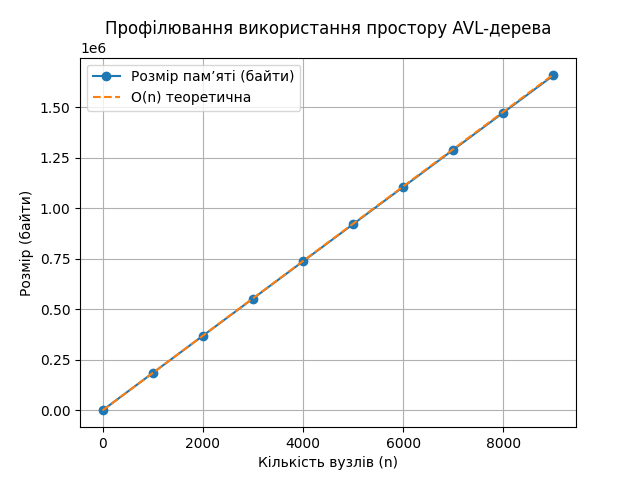
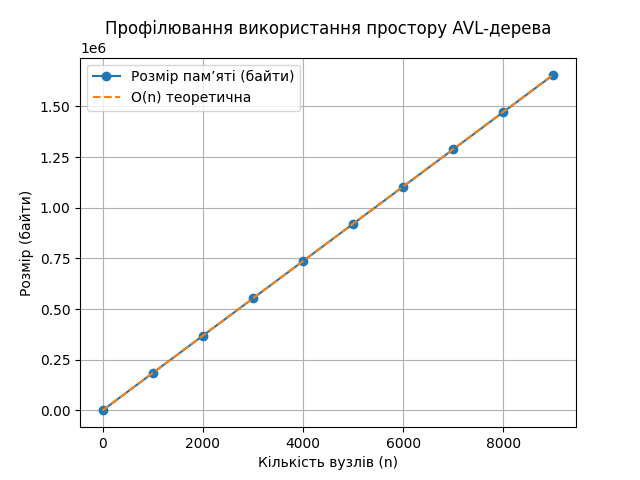
Update README.md

diff --git a/scripts/profile_space.py b/scripts/profile_space.py
@@ -4,7 +4,7 @@ from balanced_binary_search_tree.avl_tree import AVLTree
 
 def profile_space():
     sizes = []
-    n_values = range(0, 10000, 1000)  # Тестуємо для різної кількості вузлів
+    n_values = range(0, 10000, 1000)
 
     for n in n_values:
         avl = AVLTree()
@@ -14,9 +14,13 @@ def profile_space():
         sizes.append(size)
         print(f"n={n}, Розмір={size} байт")
 
+    # Теоретична O(n) крива, нормалізована до розміру одного вузла
+    size_per_node = (sizes[1] - sizes[0]) / 1000  # Розмір на вузол (184 байт)
+    theoretical = [sizes[0] + n * size_per_node for n in n_values]
+
     # Побудова графіку
     plt.plot(n_values, sizes, label='Розмір пам’яті (байти)', marker='o')
-    plt.plot(n_values, [n * sizes[1] / 1000 for n in n_values], label='O(n) теоретична', linestyle='--')
+    plt.plot(n_values, theoretical, label='O(n) теоретична', linestyle='--')
     plt.xlabel('Кількість вузлів (n)')
     plt.ylabel('Розмір (байти)')
     plt.title('Профілювання використання простору AVL-дерева')
